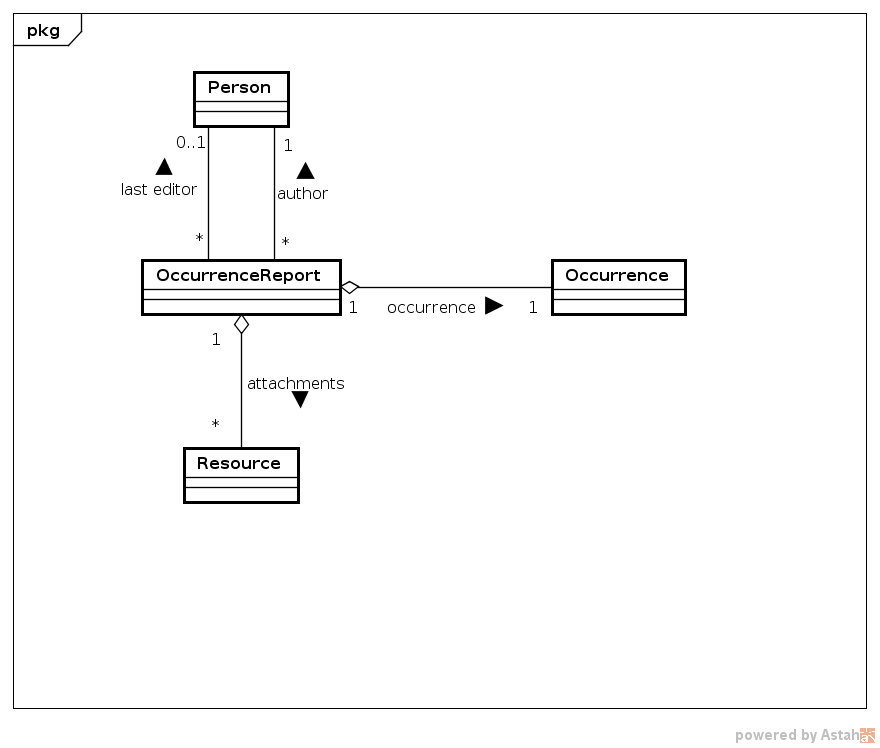
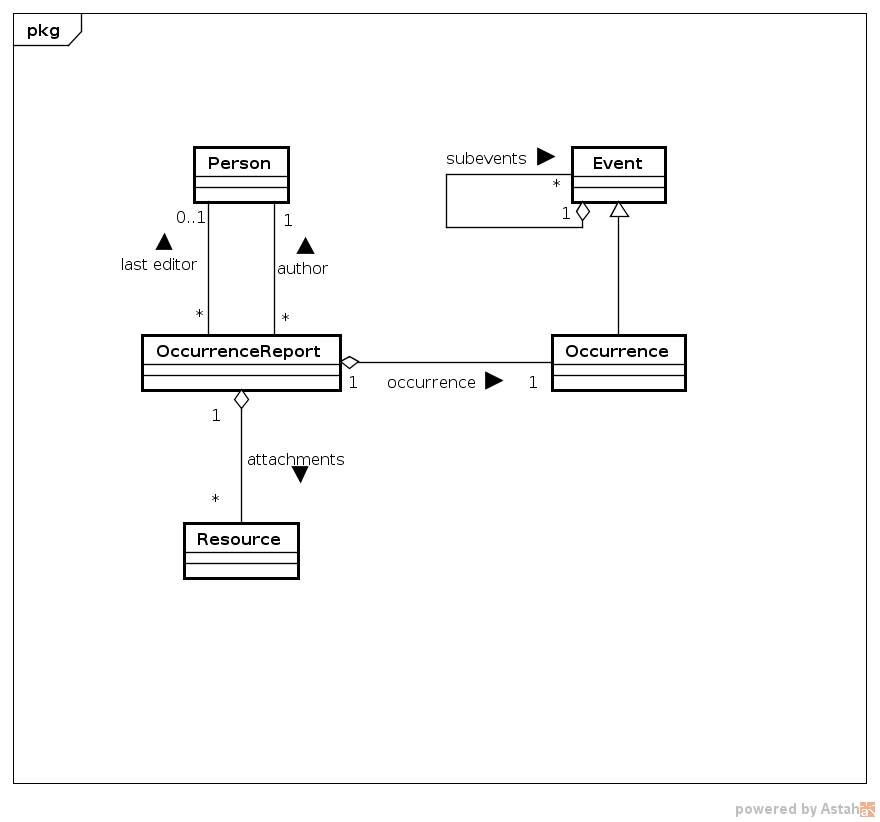
Started working on model extension with event hierarchy and inheritance between Event and Occurrence.

Changed region(s): [[0.1227, 0.0922, 0.7977, 0.7072], [0.0, 0.0, 0.9818, 0.0615], [0.8591, 0.9532, 1.0, 1.0]]

diff --git a/jopa-benchmark/src/main/java/cz/cvut/kbss/benchmark/jopa/model/Event.java b/jopa-benchmark/src/main/java/cz/cvut/kbss/benchmark/jopa/model/Event.java
@@ -1,0 +1,88 @@
+package cz.cvut.kbss.benchmark.jopa.model;
+
+import cz.cvut.kbss.benchmark.model.Vocabulary;
+import cz.cvut.kbss.jopa.model.annotations.*;
+
+import java.net.URI;
+import java.util.Date;
+import java.util.Set;
+
+@OWLClass(iri = Vocabulary.s_c_Event)
+public class Event implements cz.cvut.kbss.benchmark.model.Event<Event> {
+
+    @Id
+    private URI uri;
+
+    @OWLDataProperty(iri = Vocabulary.s_p_has_start_time)
+    private Date startTime;
+
+    @OWLDataProperty(iri = Vocabulary.s_p_has_end_time)
+    private Date endTime;
+
+    @OWLObjectProperty(iri = Vocabulary.s_p_has_part)
+    private Set<Event> subEvents;
+
+    @OWLObjectProperty(iri = Vocabulary.s_p_has_event_type)
+    private URI eventType;
+
+    public URI getUri() {
+        return uri;
+    }
+
+    public void setUri(URI uri) {
+        this.uri = uri;
+    }
+
+    @Override
+    public String getId() {
+        return uri.toString();
+    }
+
+    @Override
+    public Date getStartTime() {
+        return startTime;
+    }
+
+    @Override
+    public void setStartTime(Date startTime) {
+        this.startTime = startTime;
+    }
+
+    @Override
+    public Date getEndTime() {
+        return endTime;
+    }
+
+    @Override
+    public void setEndTime(Date endTime) {
+        this.endTime = endTime;
+    }
+
+    @Override
+    public Set<Event> getSubEvents() {
+        return subEvents;
+    }
+
+    public void setSubEvents(Set<Event> subEvents) {
+        this.subEvents = subEvents;
+    }
+
+    @Override
+    public URI getEventType() {
+        return eventType;
+    }
+
+    @Override
+    public void setEventType(URI eventType) {
+        this.eventType = eventType;
+    }
+
+    @Override
+    public String toString() {
+        return "Event{" +
+                "uri=" + uri +
+                ", subEvents=" + subEvents +
+                ", eventType=" + eventType +
+                '}';
+    }
+}

diff --git a/jopa-benchmark/src/main/java/cz/cvut/kbss/benchmark/jopa/model/Occurrence.java b/jopa-benchmark/src/main/java/cz/cvut/kbss/benchmark/jopa/model/Occurrence.java
@@ -1,41 +1,14 @@
 package cz.cvut.kbss.benchmark.jopa.model;
 
 import cz.cvut.kbss.benchmark.model.Vocabulary;
-import cz.cvut.kbss.jopa.model.annotations.Id;
 import cz.cvut.kbss.jopa.model.annotations.OWLAnnotationProperty;
 import cz.cvut.kbss.jopa.model.annotations.OWLClass;
-import cz.cvut.kbss.jopa.model.annotations.OWLDataProperty;
-
-import java.net.URI;
-import java.util.Date;
 
 @OWLClass(iri = Vocabulary.s_c_Occurrence)
-public class Occurrence implements cz.cvut.kbss.benchmark.model.Occurrence {
-
-    @Id
-    private URI uri;
+public class Occurrence extends Event implements cz.cvut.kbss.benchmark.model.Occurrence<Event> {
 
     @OWLAnnotationProperty(iri = Vocabulary.s_p_label)
     private String name;
-
-    @OWLDataProperty(iri = Vocabulary.s_p_has_start_time)
-    private Date startTime;
-
-    @OWLDataProperty(iri = Vocabulary.s_p_has_end_time)
-    private Date endTime;
-
-    public URI getUri() {
-        return uri;
-    }
-
-    public void setUri(URI uri) {
-        this.uri = uri;
-    }
-
-    @Override
-    public String getId() {
-        return uri.toString();
-    }
 
     @Override
     public String getName() {
@@ -48,27 +21,7 @@ public class Occurrence implements cz.cvut.kbss.benchmark.model.Occurrence {
     }
 
     @Override
-    public Date getStartTime() {
-        return startTime;
-    }
-
-    @Override
-    public void setStartTime(Date startTime) {
-        this.startTime = startTime;
-    }
-
-    @Override
-    public Date getEndTime() {
-        return endTime;
-    }
-
-    @Override
-    public void setEndTime(Date endTime) {
-        this.endTime = endTime;
-    }
-
-    @Override
     public String toString() {
-        return "Occurrence{" + name + " <" + uri + ">}";
+        return "Occurrence{" + name + " <" + getUri() + ">}";
     }
 }

diff --git a/core/src/main/java/cz/cvut/kbss/benchmark/model/Vocabulary.java b/core/src/main/java/cz/cvut/kbss/benchmark/model/Vocabulary.java
@@ -5,6 +5,7 @@ public class Vocabulary {
     public static final String BASE_URI = "http://krizik.felk.cvut.cz/ontologies/benchmark/";
 
     public static final String s_c_occurrence_report = "http://onto.fel.cvut.cz/ontologies/documentation/occurrence_report";
+    public final static String s_c_Event = "http://onto.fel.cvut.cz/ontologies/ufo/Event";
     public static final String s_c_Occurrence = "http://onto.fel.cvut.cz/ontologies/aviation-safety/Occurrence";
     public static final String s_c_Person = "http://onto.fel.cvut.cz/ontologies/ufo/Person";
     public static final String s_c_Resource = "http://onto.fel.cvut.cz/ontologies/aviation/documentation/resource";
@@ -27,6 +28,8 @@ public class Vocabulary {
     public static final String s_p_contact = "http://xmlns.com/foaf/0.1/mbox";
     public static final String s_p_references = "http://purl.org/dc/terms/references";
     public final static String s_p_has_severity_assessment = "http://onto.fel.cvut.cz/ontologies/documentation/has_severity_assessment";
+    public final static String s_p_has_part = "http://onto.fel.cvut.cz/ontologies/ufo/has_part";
+    public final static String s_p_has_event_type = "http://onto.fel.cvut.cz/ontologies/reporting-tool/has_event_type";
 
     private Vocabulary() {
         throw new AssertionError();

diff --git a/core/src/main/java/cz/cvut/kbss/benchmark/data/DataGenerator.java b/core/src/main/java/cz/cvut/kbss/benchmark/data/DataGenerator.java
@@ -69,10 +69,18 @@ public abstract class DataGenerator<P extends Person, R extends OccurrenceReport
         occurrence.setName("Occurrence" + random.nextInt());
         occurrence.setStartTime(new Date(System.currentTimeMillis() - 10000));
         occurrence.setEndTime(new Date());
+        occurrence.setSubEvents(generateEventHierarchy());
         return occurrence;
     }
 
     protected abstract Occurrence occurrence();
+
+    private Set<Event> generateEventHierarchy() {
+        // TODO
+        return null;
+    }
+
+    protected abstract Event event();
 
     protected Set<Resource> generateAttachments() {
         return IntStream.range(0, 3).mapToObj(i -> generateAttachment()).collect(Collectors.toSet());

diff --git a/core/src/main/java/cz/cvut/kbss/benchmark/model/Event.java b/core/src/main/java/cz/cvut/kbss/benchmark/model/Event.java
@@ -1,0 +1,25 @@
+package cz.cvut.kbss.benchmark.model;
+
+import java.io.Serializable;
+import java.net.URI;
+import java.util.Date;
+import java.util.Set;
+
+public interface Event<T extends Event> extends Serializable, HasIdentifier {
+
+    Date getStartTime();
+
+    void setStartTime(Date startTime);
+
+    Date getEndTime();
+
+    void setEndTime(Date endTime);
+
+    URI getEventType();
+
+    void setEventType(URI eventType);
+
+    Set<T> getSubEvents();
+
+    void setSubEvents(Set<T> subEvents);
+}

diff --git a/core/src/main/java/cz/cvut/kbss/benchmark/model/Occurrence.java b/core/src/main/java/cz/cvut/kbss/benchmark/model/Occurrence.java
@@ -1,19 +1,8 @@
 package cz.cvut.kbss.benchmark.model;
 
-import java.io.Serializable;
-import java.util.Date;
-
-public interface Occurrence extends Serializable, HasIdentifier {
+public interface Occurrence<T extends Event> extends Event<T> {
 
     String getName();
 
     void setName(String name);
-
-    Date getStartTime();
-
-    void setStartTime(Date startTime);
-
-    Date getEndTime();
-
-    void setEndTime(Date endTime);
 }
